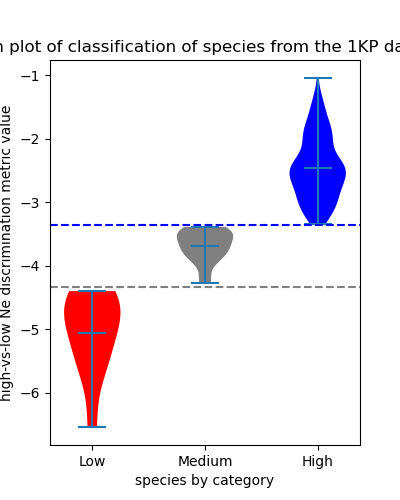
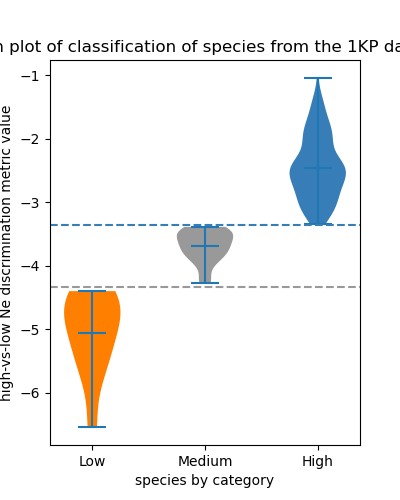
updated figs R3 and R5

Changed region(s): [[0.15, 0.57, 0.3, 0.87], [0.72, 0.15, 0.87, 0.45], [0.42, 0.45, 0.6, 0.57]]

diff --git a/results_viewer/allo_auto_predictor.py b/results_viewer/allo_auto_predictor.py
@@ -11,6 +11,8 @@ from sklearn.metrics import mean_squared_error
 from scipy.optimize import curve_fit
 from matplotlib import pyplot as plt
 from matplotlib.patches import Rectangle
+
+import config
 from results_viewer import curve_fitting
 from results_viewer.batch_histogrammer import get_truth_from_name_list
 
@@ -209,11 +211,17 @@ class AlloAutoPredictor(unittest.TestCase):
             plot_error_vs_metric(errors_for_test, metric, metric_name,
                                  sims_names_list, test_i, tests, out_folder)
 
-        mode_predictions=[100*mode_dict[s]for s in sims_names_list]
-        wgd_truths=[allo_vs_auto_truth_by_sim[s][1] for s in sims_names_list]
+        mode_predictions = [100 * mode_dict[s] for s in sims_names_list]
+        wgd_truths = [allo_vs_auto_truth_by_sim[s][1] for s in sims_names_list]
+        mode_predictions_auto_only = [100 * mode_dict[s] for s in sims_names_list if "Auto" in s]
+        wgd_truths_auto_only = [allo_vs_auto_truth_by_sim[s][1] for s in sims_names_list if "Auto" in s]
+        mode_predictions_allo_only = [100 * mode_dict[s] for s in sims_names_list if "Allo" in s]
+        wgd_truths_allo_only = [allo_vs_auto_truth_by_sim[s][1] for s in sims_names_list if "Allo" in s]
+
         tests=["mode vs WGD time"]
         errors=[mode_predictions[j]-wgd_truths[j] for j in range(0,len(mode_predictions))]
-        plot_data_and_CI_for_mode_prediction(mode_predictions,wgd_truths, discrim_criteria_midpoint, num_data_points,
+        plot_data_and_CI_for_mode_prediction(mode_predictions_allo_only,wgd_truths_allo_only,
+                                             mode_predictions_auto_only, wgd_truths_auto_only,
                                  out_folder, sims_names_list, 0, tests)
 
         metric = [allo_vs_auto_truth_by_sim[s][2] for s in sims_names_list]
@@ -302,42 +310,56 @@ class AlloAutoPredictor(unittest.TestCase):
 
 def plot_error_vs_metric(error, metric, metric_name,
                      sims_names_list, test_i, tests, out_folder):
-    colors = ["red" if "Auto" in s else "blue" for s in sims_names_list]
-
-    alphas = [1 if "Auto" in s else 0.25 for s in sims_names_list]
+    colors = [config.auto_color if "Auto" in s else config.allo_color for s in sims_names_list]
+    ci_percent=99.99
+    alphas = [0.25 if "Auto" in s else 0.25 for s in sims_names_list]
     fig, ax = plt.subplots(1, 1, figsize=(5, 5))
     plt.scatter( metric,error, alpha=alphas,
                 c=colors)
 
-    if test_i == 2:
-        ax.set(xlabel="<--auto    truth (MY)   allo-->")
-        ax.set(ylabel="<--auto  prediction (MY) allo-->")
-        ax.set(title="Predictions of polyploid index (SPEC - WGD time, in MY)")
+    foo = pd.DataFrame({'error': error,
+                        'metric': metric})
 
-    else:
-        ax.set(xlabel=metric_name)
-        ax.set(ylabel="prediction error")
+    sns.regplot(data=foo, x='metric', y='error', color='k',ci=ci_percent,marker=None,scatter=False,
+                label="CI at {0}%\n(all data)".format(ci_percent),
+                line_kws={"linewidth":1})
+
+    #if test_i == 2:
+    #    ax.set(xlabel="<--auto    truth (MY)   allo-->")
+    #    ax.set(ylabel="<--auto  prediction (MY) allo-->")
+    #    ax.set(title="Predictions of polyploid index (SPEC - WGD time, in MY)")
+
+    #else:
+    ax.set(xlabel=metric_name)
+    ax.set(ylabel="prediction error")
     ax.set(ylim=[-10,65])
-    #plt.legend()
+    plt.legend()
     plot_file = os.path.join(out_folder, tests[test_i] + "_error_vs_" + metric_name +".png")
     plt.savefig(plot_file)
     plt.close()
     return plot_file
 
-def plot_data_and_CI_for_mode_prediction(ava_predictions, ava_truth, discrim_criteria_midpoint, num_data_points, out_folder,
-                     sims_names_list, test_i, tests):
+def plot_data_and_CI_for_mode_prediction(ava_predictions_allo, ava_truth_allo,
+                                         ava_predictions_auto, ava_truth_auto,out_folder,
+                                        sims_names_list, test_i, tests):
 
-    colors = ["red" if "Auto" in s else "blue" for s in sims_names_list]
-    ci_shading = ["auto CI at 95%" if "Auto" in s else "allo CI at 95%"  for s in sims_names_list]
-    alphas = [1 if "Auto" in s else 0.25 for s in sims_names_list]
+    ci_percent=99.99
+    ci_shading_auto = ["CI at {0}% (auto only)".format(ci_percent) for s in sims_names_list if "Auto" in s]
+    #alphas = [0.25 if "Auto" in s else 0.25 for s in sims_names_list]
     fig, ax = plt.subplots(1, 1, figsize=(5, 5))
-    plt.scatter(ava_truth, ava_predictions, alpha=alphas,
-                c=colors)
+    plt.scatter(ava_truth_auto, ava_predictions_auto, alpha=1,
+                c=config.auto_color, label="auto")
+    plt.scatter(ava_truth_allo, ava_predictions_allo, alpha=0.5,
+                c=config.allo_color, label="allo")
 
-    foo = pd.DataFrame({'truth': ava_truth,
-                        'prediction': ava_predictions,
-                        'CI': ci_shading})
-    sns.lineplot(data=foo, x='truth', y='prediction', hue='CI', palette=["darkblue",'darkred'], )
+    foo = pd.DataFrame({'truth': ava_predictions_auto,
+                        'prediction': ava_truth_auto,
+                        'CI': ci_shading_auto})
+    #sns.lineplot(data=foo, x='truth', y='prediction', hue='CI', palette=['k'],
+    #             errorbar=('ci', ci_percent))
+    sns.regplot(data=foo, x='truth', y='prediction', color='k',ci=ci_percent,marker=None,scatter=False,
+                label="CI at {0}%\n(autos only)".format(ci_percent),
+                line_kws={"linewidth":1})
     ax.set(xlabel="truth (MY)")
     ax.set(ylabel="prediction (MY)")
     plt.legend()
@@ -349,15 +371,33 @@ def plot_data_and_CI_for_mode_prediction(ava_predictions, ava_truth, discrim_cri
 def plot_data_and_CI(ava_predictions, ava_truth, discrim_criteria_midpoint, num_data_points, out_folder,
                      sims_names_list, test_i, tests):
     #colors = ["red" if "Auto" in s else "blue" for s in sims_names_list]
-    colors = ["k" if "Auto" in s else "k" for s in sims_names_list]
-    ci_shading = ["CI at 95%" for s in sims_names_list]
-    alphas = [1 if "Auto" in s else 0.25 for s in sims_names_list]
-    fig, ax = plt.subplots(1, 1, figsize=(5, 5))
-    plt.scatter(ava_truth, ava_predictions, alpha=alphas,
-                c=colors, label=tests[test_i] + ", truth vs prediction\nn={0}".format(num_data_points))
+    ci_percent=99.99
+    colors = [config.auto_color if "Auto" in s else config.allo_color for s in sims_names_list]
+    ci_shading = ["CI at {0}% (auto and allo)".format(ci_percent) for s in sims_names_list]
+    alphas = [1 if "Auto" in s else 0.5 for s in sims_names_list]
+    fig, ax = plt.subplots(1, 1, figsize=(5,5))
+    auto_labeled=False; allo_labeled=False
+
+    for i in range(0,len(ava_truth)):
+        color=colors[i]
+        if color==config.auto_color and not auto_labeled:
+                plt.scatter(ava_truth[i], ava_predictions[i], alpha=alphas[i],
+                            c=color, label="auto")
+                auto_labeled=True
+        elif color==config.allo_color and not allo_labeled:
+                plt.scatter(ava_truth[i], ava_predictions[i], alpha=alphas[i],
+                            c=color, label="allo")
+                allo_labeled=True
+        else:
+            plt.scatter(ava_truth[i], ava_predictions[i], alpha=alphas[i],
+                c=color)
 
     foo = pd.DataFrame({'truth': ava_truth, 'prediction': ava_predictions, 'CI': ci_shading})
-    sns.lineplot(data=foo, x='truth', y='prediction', hue='CI', palette=['k'],errorbar=('ci', 95) )
+    #sns.lineplot(data=foo, x='truth', y='prediction', hue='CI', palette=['k'],errorbar=('ci', ci_percent) )
+    sns.regplot(data=foo, x='truth', y='prediction', color='k',ci=ci_percent,marker=None,scatter=False,
+                label="CI at {0}%\n(all data)".format(ci_percent),
+                line_kws={"linewidth":1})
+
     if test_i == 2:
         ax.set(xlabel="<--auto    truth (MY)   allo-->")
         ax.set(ylabel="<--auto  prediction (MY) allo-->")

diff --git a/1KP_analysis/run_1KP_analysis.py b/1KP_analysis/run_1KP_analysis.py
@@ -114,21 +114,25 @@ def read_list_of_curated_WGD_to_use_for_analysis(saved_curated_wgd_name):
 
 def plot_histogram_of_metric3_over1KP(metrics_for_hist, output_folder):
 
+    colors_by_category = {"Low": config.auto_color,
+                          "Medium":config.color_blind_friendly_color_cycle_analogs['gray'],
+                          "High": config.allo_color}
+
     fig = plt.figure(figsize=(4, 5), dpi=100)
     n, bins, patches = plt.hist(metrics_for_hist, bins=100, facecolor='b', alpha=1, label='histogram data')
     lmt=get_low_to_medium_threshold()
     mht=get_medium_to_high_threshold()
-    plt.axvline(x=lmt, color='gray', linestyle='--', label="lvm thresh")
-    plt.axvline(x=mht, color='blue', linestyle='--', label="mvh thresh")
+    plt.axvline(x=lmt, color=colors_by_category["Medium"], linestyle='--', label="lvm thresh")
+    plt.axvline(x=mht, color=colors_by_category["High"], linestyle='--', label="mvh thresh")
 
     for i in range(0,len(patches)):
         bini=bins[i]
         if bini <=lmt:
-            patches[i].set_facecolor('red')
+            patches[i].set_facecolor(colors_by_category["Low"])
         elif bini <= mht:
-            patches[i].set_facecolor('gray')
+            patches[i].set_facecolor(colors_by_category["Medium"])
         else:
-            patches[i].set_facecolor('blue')
+            patches[i].set_facecolor(colors_by_category["High"])
 
     plt.ylabel("# species")
     plt.xlabel("high-vs-low Ne discrimination metric value")
@@ -178,7 +182,9 @@ def analyze_metric_results(input_metrics_file, out_folder):
             return well_behaved_wgd_histograms
 
 def make_violin_plot(out_folder, plot_data, plot_name, plot_to_make):
-    colors_by_category = {"Low": "red", "Medium": "gray", "High": "blue"}
+    colors_by_category = {"Low": config.auto_color,
+                          "Medium":config.color_blind_friendly_color_cycle_analogs['gray'],
+                          "High": config.allo_color}
     categories = colors_by_category.keys()
     data = []
     data_labels = []
@@ -196,11 +202,11 @@ def make_violin_plot(out_folder, plot_data, plot_name, plot_to_make):
     for pc, color in zip(plots['bodies'], colors):
         pc.set_facecolor(color)
         pc.set_alpha(1)
-    ax.axhline(y=get_low_to_medium_threshold(), color='gray', linestyle='--')
+    ax.axhline(y=get_low_to_medium_threshold(), color=colors_by_category["Medium"], linestyle='--')
     #           #label="lvm disc. criteria"
     #           #                                                                     + " ({0})".format(
     #    round(get_low_to_medium_threshold(), 2)))
-    ax.axhline(y=get_medium_to_high_threshold(), color='blue', linestyle='--')
+    ax.axhline(y=get_medium_to_high_threshold(), color=colors_by_category["High"], linestyle='--')
     #fig.suptitle(plot_to_make[2])
     #ax.set(xlabel=plot_to_make[1])
     #ax.set(ylabel="log(fit cm-mode)")

diff --git a/results_viewer/time_series_histogrammer.py b/results_viewer/time_series_histogrammer.py
@@ -15,7 +15,7 @@ class TimeSeriesHistogrammer(unittest.TestCase):
         plot_title=("Time series for sim N5")
 
         input_folder=os.path.join( "/home/tamsen/Data/Specks_outout_from_mesx",batch_name)
-        output_folder=os.path.join(input_folder,"analysis")
+        output_folder=input_folder#os.path.join(input_folder,"analysis")
         if not os.path.exists(output_folder):
             os.makedirs(output_folder)
 
@@ -27,7 +27,7 @@ class TimeSeriesHistogrammer(unittest.TestCase):
         print("Making plots..")
         bin_size = 0.001
         max_Ks = 0.75
-        max_Ys= [80,250]
+        max_Ys= [250,250]
 
         for spec in ['polyploid']:#species:
             get_time_series_histograms_for_runs_in_batch(output_folder, plot_title,
@@ -54,9 +54,9 @@ def get_time_series_histograms_for_runs_in_batch(out_folder, sample_name, csvfil
     fig.suptitle(sample_name + " for " + replicate +", "+ alg + " algorithm")
     ax[0].set_title("Allopolyploid\n",fontsize=15)
     ax[1].set_title("Autopolyploid\n",fontsize=15)
-    colors=['blue','red']
-    red_interval = 1.4 / num_spec_times
-    blue_interval = 2 / num_spec_times
+    colors=[config.allo_color, config.auto_color]
+    red_color_interval = 1.4 / num_spec_times
+    blue_color_interval = 2 / num_spec_times
     for sim_idx in range(0, num_spec_times):
 
         allo_group="Allo"+str(sim_idx+1)
@@ -71,10 +71,10 @@ def get_time_series_histograms_for_runs_in_batch(out_folder, sample_name, csvfil
                 continue
             this_ax = ax[spec_mode_idx]
             color = colors[spec_mode_idx]
-            if color=='red':
-                amount = 0.4 + sim_idx * red_interval
+            if color==config.auto_color:
+                amount = 0.4 + sim_idx * red_color_interval
             else:
-                amount = 0.2 + sim_idx *blue_interval
+                amount = 0.2 + sim_idx *blue_color_interval
 
             new_color = lighten_color(color, amount=amount)
 
@@ -91,9 +91,9 @@ def get_time_series_histograms_for_runs_in_batch(out_folder, sample_name, csvfil
             save_hist_to_csv(hist_data, out_file_name)
 
 
-            this_ax.set(xlabel="<-- ks as MYA -->")
+            this_ax.set(xlabel="~MYA (Ks*{0})".format(config.SpecKS_config.Ks_per_Myr))
 
-    ax[0].set(ylabel="<- # paralog pairs -> ")
+    ax[0].set(ylabel=config.histogram_y_label)
     plt.tight_layout()
     out_file_name=os.path.join(out_folder, "histogram" + "_plot_" + spec +
                                "_" + replicate + "_" + str(max_Ks_for_x_axis) + ".png")

diff --git a/results_viewer/view_across_Ne.py b/results_viewer/view_across_Ne.py
@@ -61,27 +61,18 @@ def get_Ne_series_histograms_for_runs_in_batch(out_folder, sample_name,
     batches=list(allo_csv_files_by_batch.keys())
     ne_string = [s.split('_')[-1].replace('N','').replace('p','.') for s in batches]
     num_batches=len(batches)
-    ncols=3;nrows=2
-    #fig, ax = plt.subplots(nrows, ncols,figsize=(8,4))
     fig, ax = plt.subplots(2, 5,figsize=(20,10))
     fig.suptitle(sample_name + " for " + replicate +", "+ alg + " algorithm")
 
     for batch_idx in range(0,num_batches):
 
-            #col=batch_idx+1
-            #row=0
-            #if col >= ncols:
-            ##    col = col -ncols
-             #   row = 1
             row=0;col=batch_idx
             ax[row,col].set_title("Ne*Gt="+ne_string[batch_idx], fontsize=20)
-
-
             [csvs_for_allo_result,params]= allo_csv_files_by_batch[batches[batch_idx]]
             ks_for_allo_result= csvs_for_allo_result[spec][replicate][alg]
             hist_data=make_Ne_series_histogram_subplot(ax[row,col], spec, ks_for_allo_result,
                                                        bin_size, params,
-                                                       max_Ks_for_x_axis, max_Y,"blue")
+                                                       max_Ks_for_x_axis, max_Y,config.allo_color)
             out_file_name = os.path.join(out_folder, "allo" + batches[batch_idx] + ".hist.csv")
             time_series_histogrammer.save_hist_to_csv(hist_data, out_file_name)
 
@@ -90,7 +81,7 @@ def get_Ne_series_histograms_for_runs_in_batch(out_folder, sample_name,
             ks_for_auto_result= csvs_for_auto_result[spec][replicate][alg]
             hist_data=make_Ne_series_histogram_subplot(ax[row,4-col], spec, ks_for_auto_result,
                                              bin_size, params,
-                                              max_Ks_for_x_axis, max_Y,"red")
+                                              max_Ks_for_x_axis, max_Y,config.auto_color)
 
             ax[1, batch_idx].set(xlabel="Ks")
 
@@ -99,8 +90,8 @@ def get_Ne_series_histograms_for_runs_in_batch(out_folder, sample_name,
 
 
 
-    ax[1,0].set(ylabel="# gene pairs in bin")
-    ax[0,0].set(ylabel="# gene pairs in bin")
+    ax[1,0].set(ylabel=config.histogram_y_label)
+    ax[0,0].set(ylabel=config.histogram_y_label)
     plt.tight_layout()
     out_file_name=os.path.join(out_folder, "histogram_across_ne" + "_plot_" + spec +
                                "_" + replicate + "_" + str(max_Ks_for_x_axis) + ".png")

diff --git a/config.py b/config.py
@@ -158,6 +158,15 @@ def parse_comma_separated_values(input_string):
         splat = cleaned_string.split(",")
         return splat
 
+# A color blind/friendly color cycle for Matplotlib line plots
+# from https://gist.github.com/thriveth/8560036
+color_blind_friendly_color_cycle_analogs = {'blue': '#377eb8', 'orange': '#ff7f00', 'green': '#4daf4a',
+                  'pink':'#f781bf', 'brown':'#a65628', 'purple':'#984ea3',
+                  'gray':'#999999', 'red':'#e41a1c', 'yellow':'#dede00'}
+
+allo_color=color_blind_friendly_color_cycle_analogs['blue']
+auto_color=color_blind_friendly_color_cycle_analogs['orange']
+histogram_y_label="# paralog pairs"
 
 class PolyploidParams:
     SPC_time_MYA = 0
